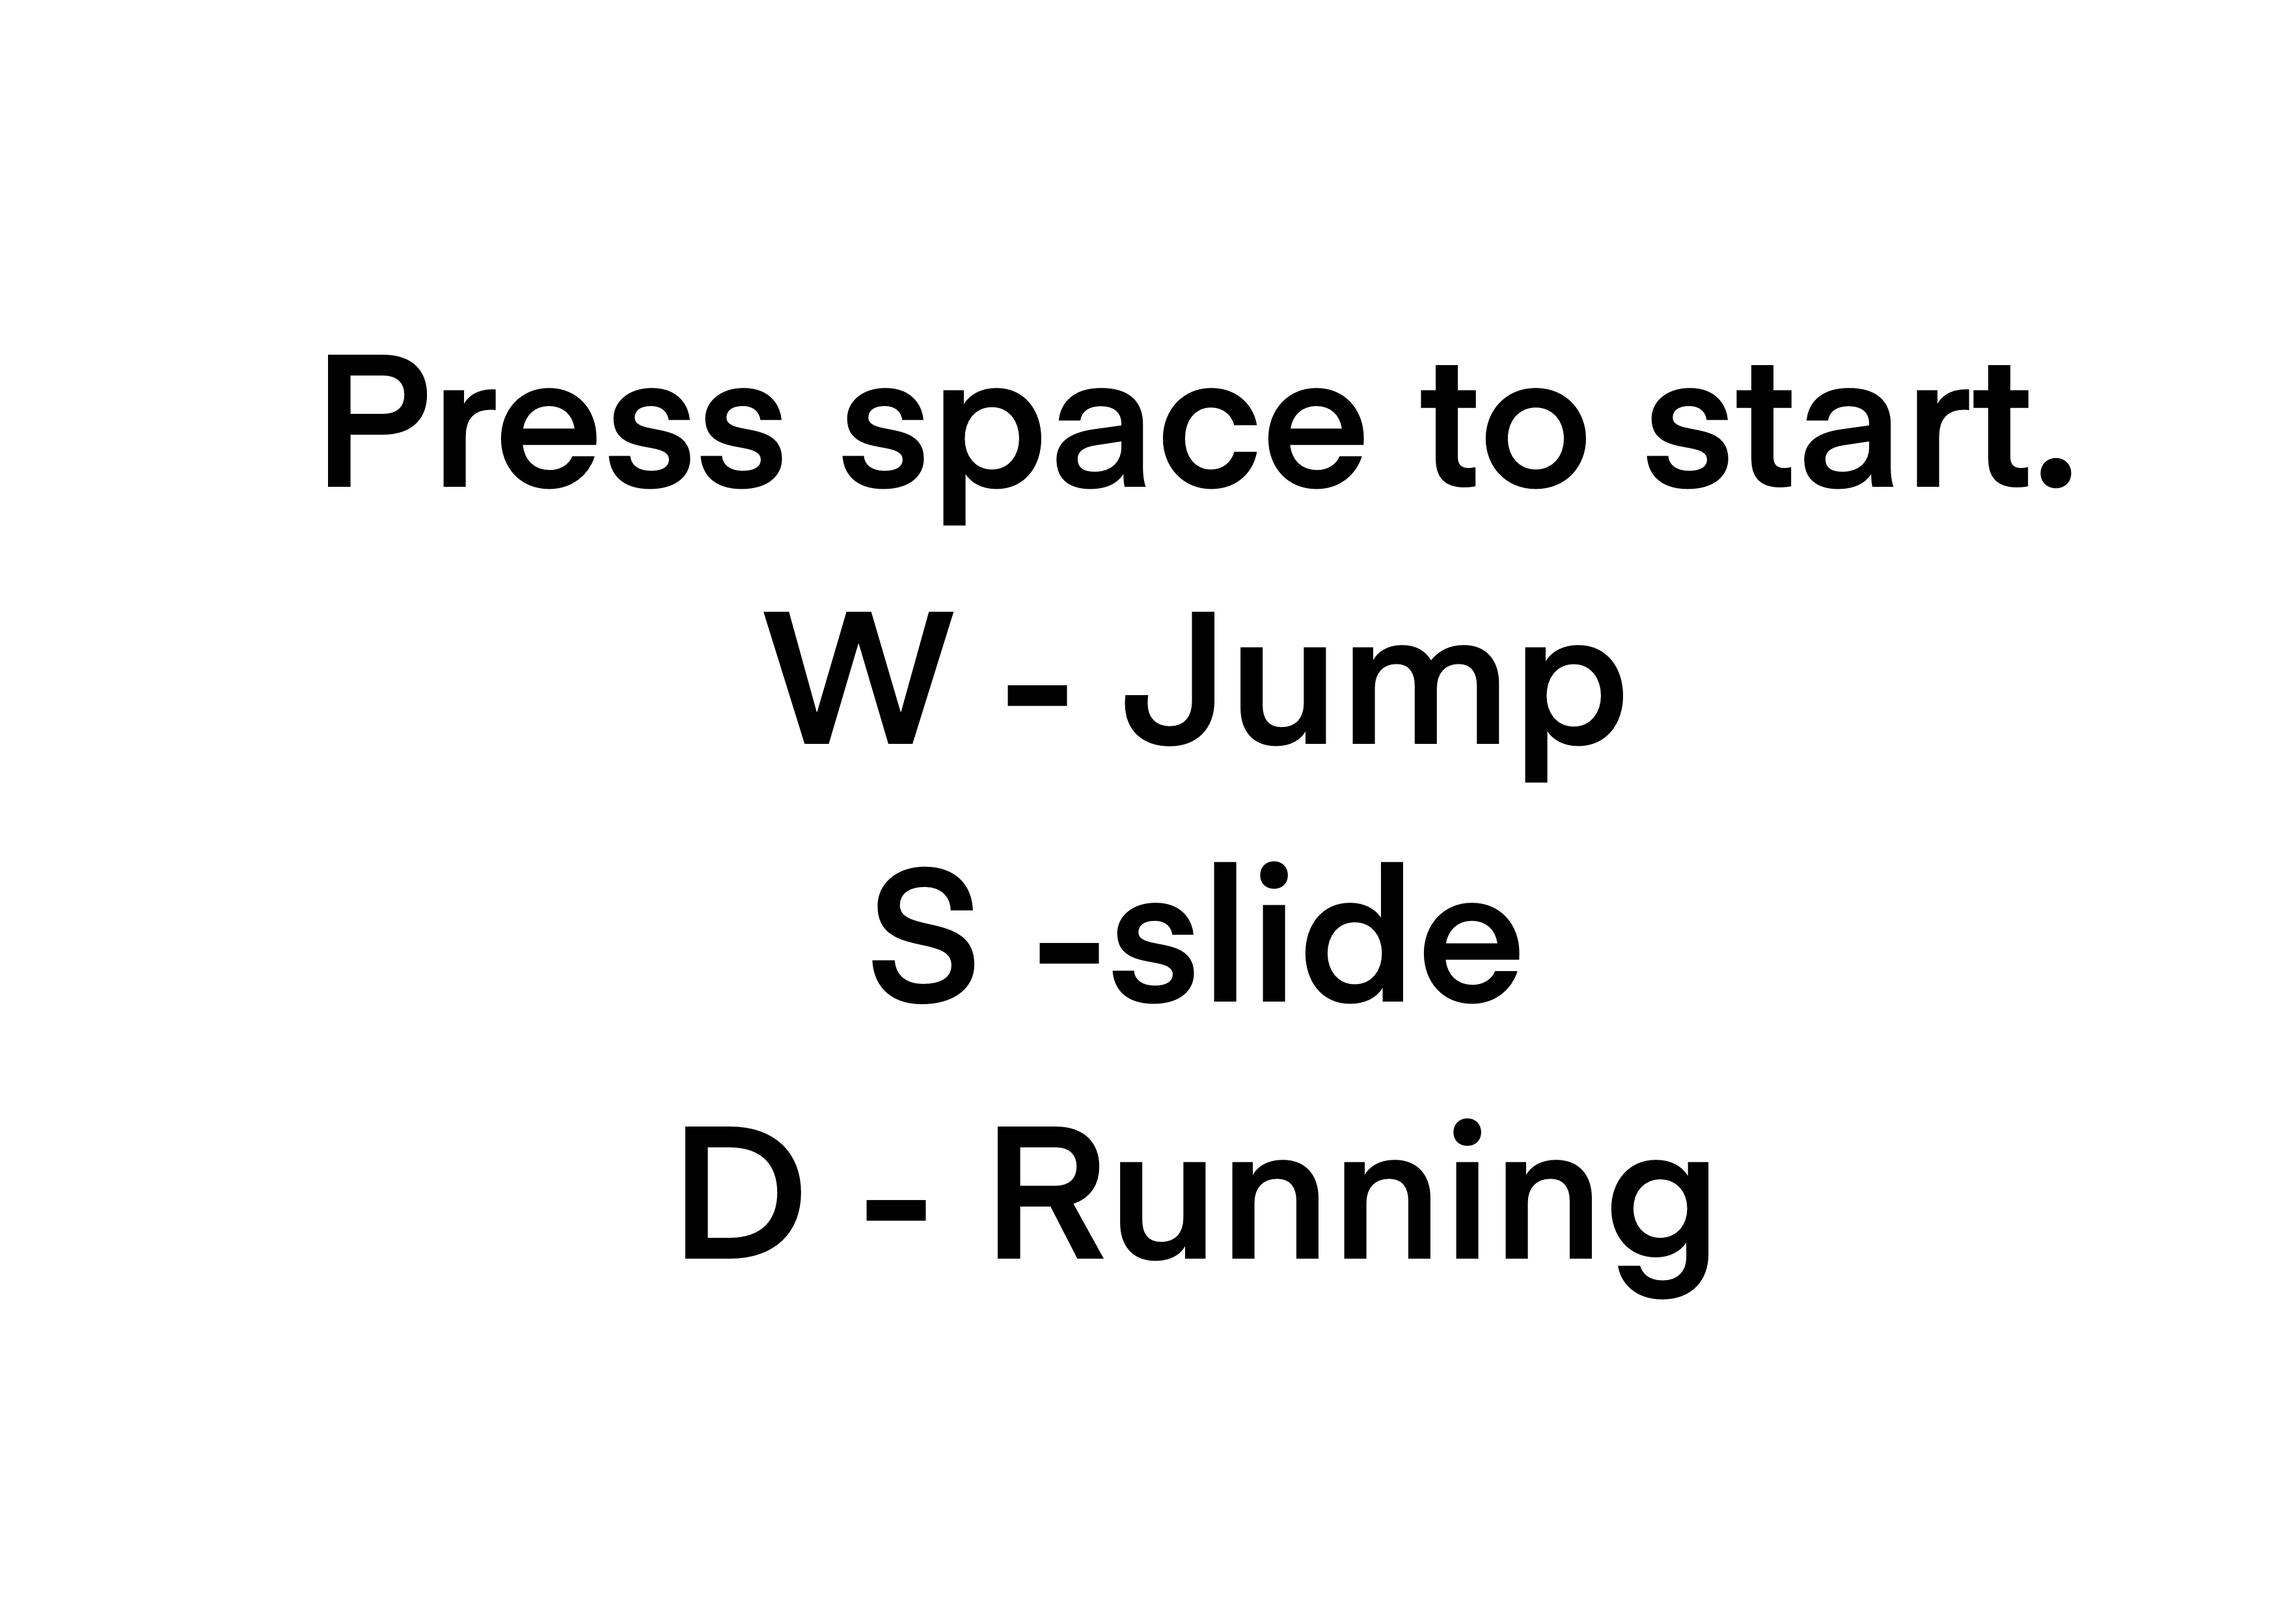
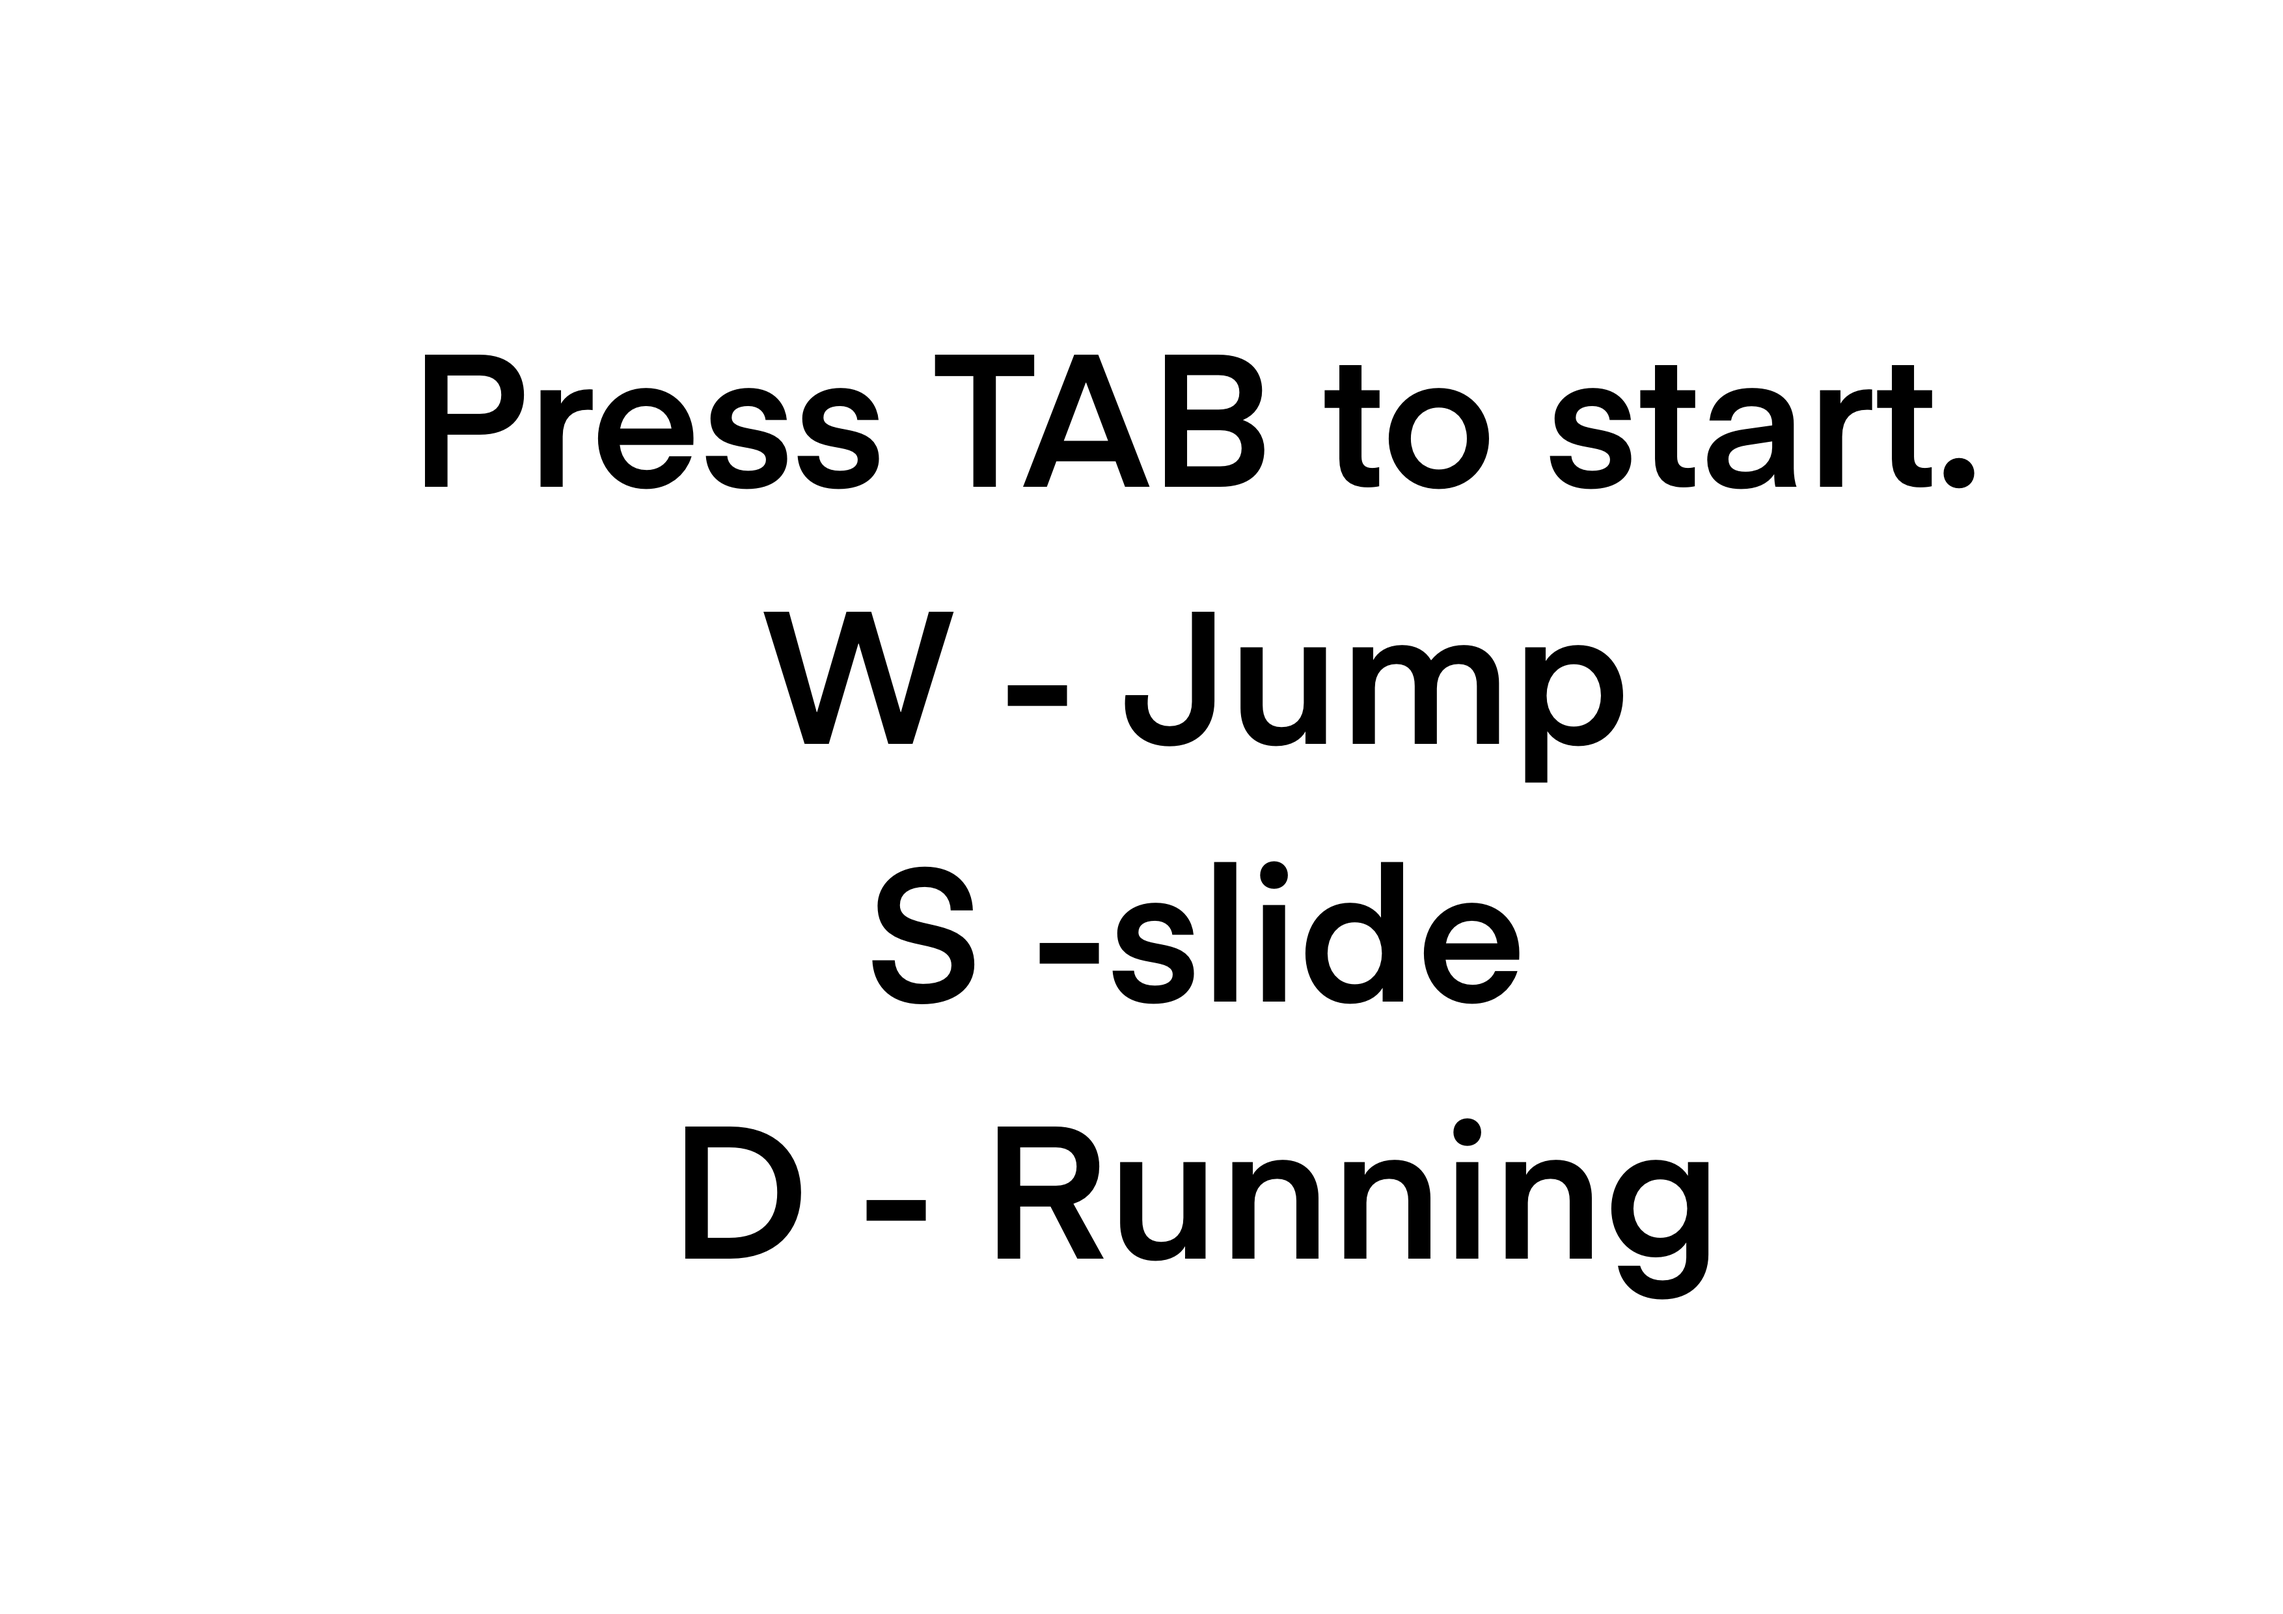
small changes in change of scene

Changed region(s): [[0.1243, 0.2173, 0.9011, 0.3415]]

diff --git a/GameDesign/Assets/Script/Start_Start.cs b/GameDesign/Assets/Script/Start_Start.cs
@@ -14,7 +14,7 @@ public class Start_Start : MonoBehaviour
     // Update is called once per frame
     void Update()
     {
-        if (Input.GetKey(KeyCode.Space))
+        if (Input.GetKey(KeyCode.Tab))
         {
             if (SceneManager.GetActiveScene().name == "Start")
             {
